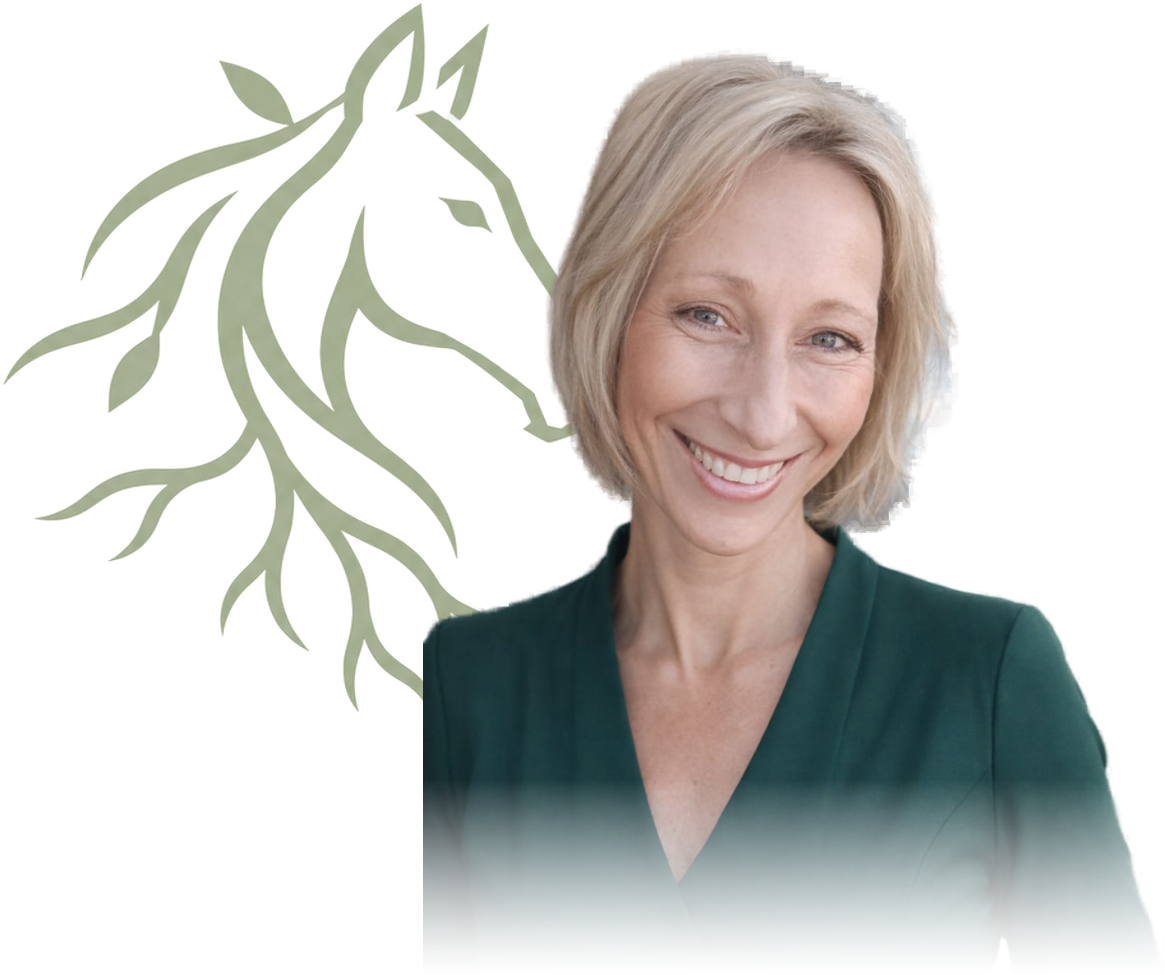
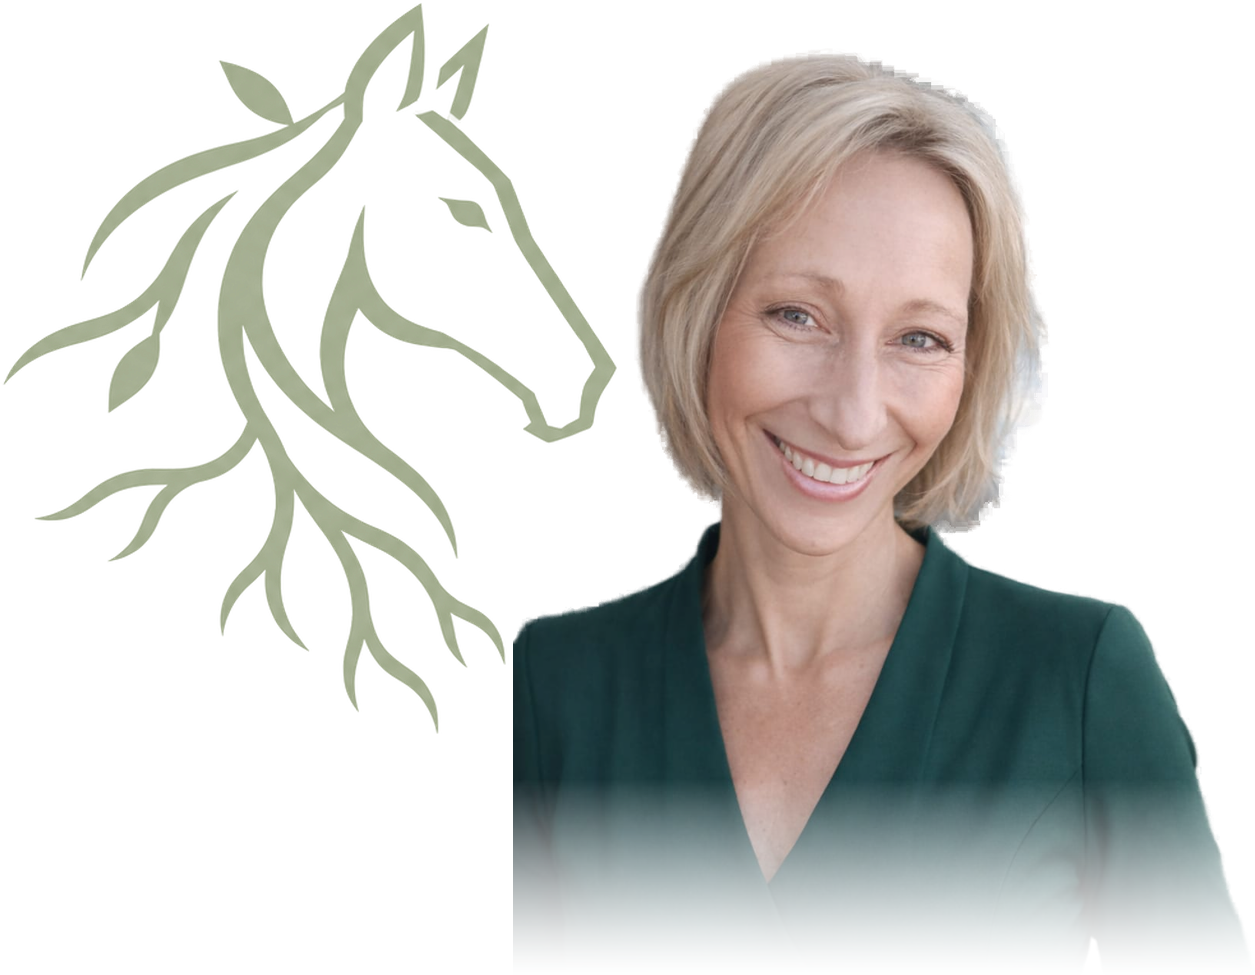
Hero: konik odsunięty w lewo
Claude-Session: https://claude.ai/code/session_01HVmoWZ8J5327srzCKeVMF9

diff --git a/index.html b/index.html
@@ -708,7 +708,7 @@ h1,h2,h3,h4,.h2,.hero h1,.ticker span,.card h3,.card.next b,.steps h4,.ev-list h
 <section class="hero" id="start"><span id="o-mnie" class="anchor"></span>
   <div class="slides" id="slides" aria-hidden="true"></div>
   <figure class="hero-visual">
-    <img class="hv-img" src="img/hero-kasia-chera.png" alt="Katarzyna Wójcik i znak Chera Lab - koń z korzeniami" width="1165" height="975">
+    <img class="hv-img" src="img/hero-kasia-chera.png" alt="Katarzyna Wójcik i znak Chera Lab - koń z korzeniami" width="1255" height="975">
     <figcaption>„Chera” to imię mojego ukochanego konia z dzieciństwa. <em>Od podstawówki wszyscy tak na mnie mówią.</em></figcaption>
   </figure>
   <div class="hero-in">
